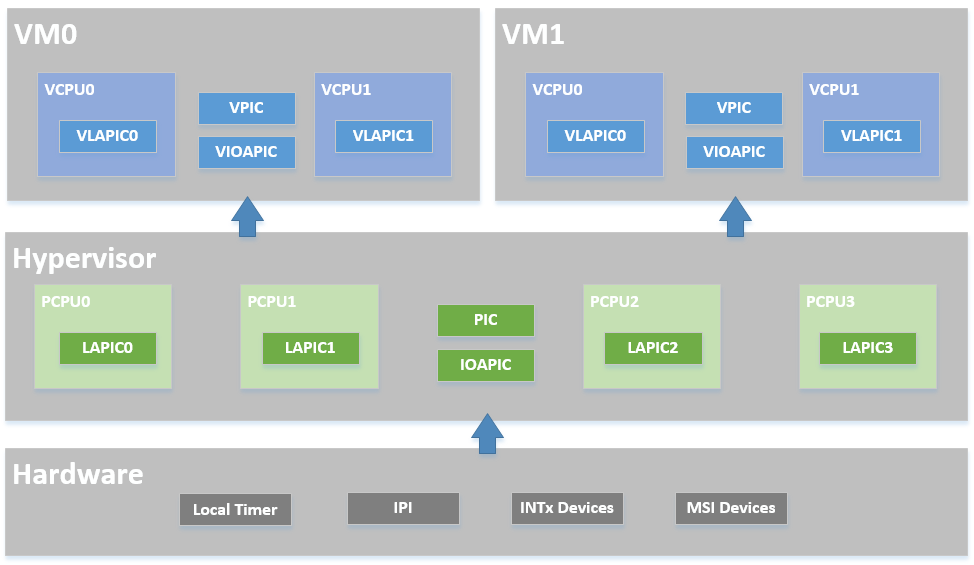
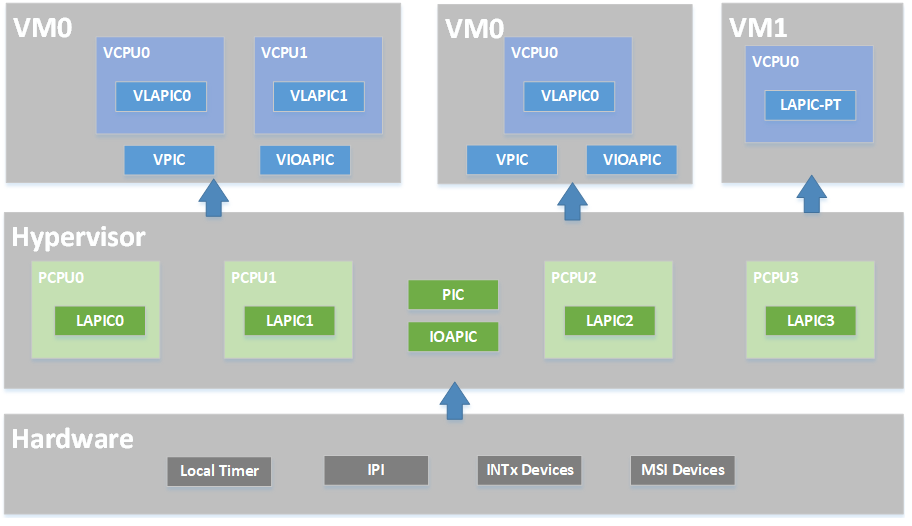
Doc: update physical interrupt HLD

diff --git a/doc/developer-guides/hld/hv-interrupt.rst b/doc/developer-guides/hld/hv-interrupt.rst
@@ -9,11 +9,13 @@ Overview
 The ACRN hypervisor implements a simple but fully functional framework
 to manage interrupts and exceptions, as show in
 :numref:`interrupt-modules-overview`. In its native layer, it configures
-the physical PIC, IOAPIC, and LAPIC to support different interrupt
+the physical PIC, IOAPIC and LAPIC to support different interrupt
 sources from local timer/IPI to external INTx/MSI. In its virtual guest
-layer, it emulates virtual PIC, virtual IOAPIC and virtual LAPIC, and
-provides full APIs allowing virtual interrupt injection from emulated or
-pass-thru devices.
+layer, it emulates virtual PIC, virtual IOAPIC and virtual LAPIC/pass-thru
+LAPIC, and provides full APIs allowing virtual interrupt injection from
+emulated or pass-thru devices. The contents in this section does not include
+the pass-thru LAPIC case, for the pass-thru LAPIC, please refer to
+:ref:`lapic_passthru`
 
 .. figure:: images/interrupt-image3.png
    :align: center
@@ -29,7 +31,8 @@ in the hypervisor interrupt flow control layer to the corresponding
 handlers, that could be pre-defined IPI notification, timer, or runtime
 registered pass-thru devices.  The ACRN hypervisor then uses its VM
 interfaces based on vPIC, vIOAPIC, and vMSI modules, to inject the
-necessary virtual interrupt into the specific VM
+necessary virtual interrupt into the specific VM, or directly deliver
+interrupt to the specific RT VM with pass-thru LAPIC.
 
 .. figure:: images/interrupt-image2.png
    :align: center
@@ -129,9 +132,9 @@ ACRN hypervisor masks all interrupts from the PIC. All legacy interrupts
 from PIC (<16) will be linked to IOAPIC, as shown in the connections in
 :numref:`hv-pic-config`.
 
-ACRN will pre-allocate vectors and mask them for these legacy interrupt
-in IOAPIC RTE. For others (>= 16), ACRN will mask them with vector 0 in
-RTE, and the vector will be dynamically allocate on demand.
+ACRN will pre-allocate vectors and set them for these legacy interrupts
+in IOAPIC RTEs. For others (>= 16), ACRN will set them with vector 0 in
+RTEs, and valid vectors will be dynamically allocated on demand.
 
 All external IOAPIC pins are categorized as GSI interrupt according to
 ACPI definition. HV supports multiple IOAPIC components. IRQ PIN to GSI
@@ -147,7 +150,7 @@ Native PIC is not used in the system.
 LAPIC Initialization
 ====================
 
-Physical LAPICs are in xAPIC mode in ACRN hypervisor. The hypervisor
+Physical LAPICs are in x2APIC mode in ACRN hypervisor. The hypervisor
 initializes LAPIC for each physical CPU by masking all interrupts in the
 local vector table (LVT), clearing all ISRs, and enabling LAPIC.
 
@@ -186,10 +189,10 @@ The interrupt vectors are assigned as shown here:
    * - Vectors
      - Usage
 
-   * - 0x0-0x13
+   * - 0x0-0x14
      - Exceptions: NMI, INT3, page dault, GP, debug.
 
-   * - 0x14-0x1F
+   * - 0x15-0x1F
      - Reserved
 
    * - 0x20-0x2F
@@ -207,6 +210,15 @@ The interrupt vectors are assigned as shown here:
    * - 0xF0
      - IPI
 
+   * - 0xF2
+     - Posted Interrupt
+
+   * - 0xF3
+     - Hypervisor Callback VHM
+
+   * - 0xF4
+     - Performance Monitering Interrupt
+
    * - 0xFF
      - SPURIOUS_APIC_VECTOR
 
@@ -217,12 +229,9 @@ priority ISR. There is no guarantee a device's interrupt will be
 delivered to a specific Guest's CPU. Timer interrupts are an exception -
 these are always delivered to the CPU which programs the LAPIC timer.
 
-There are two interrupt delivery modes: FLAT mode and PER_CPU mode. ACRN
-uses FLAT MODE where the interrupt/irq to vector mapping is the same on all CPUs. Every
-CPU receives same interrupts. IOAPIC and LAPIC MSI delivery mode are
-configured to Lowest Priority.
-
-Vector allocation for CPUs is shown here:
+x86-64 supports per CPU IDTs, but ACRN uses a global shared IDT,
+with which the interrupt/irq to vector mapping is the same on all CPUs. Vector
+allocation for CPUs is shown here:
 
 .. figure:: images/interrupt-image89.png
    :align: center
@@ -233,17 +242,15 @@ IRQ Descriptor Table
 ====================
 
 ACRN hypervisor maintains a global IRQ Descriptor Table shared among the
-physical CPUs. ACRN use FLAT MODE to manage the interrupts so the
-same vector will link to same the IRQ number for all CPUs.
+physical CPUs, so the same vector will link to the same IRQ number for
+all CPUs.
 
 .. note:: need to reference API doc for irq_desc
 
 
-The *irq_desc[]* array's index represents IRQ number. An *irq_handler*
-field could be set to common edge/level/quick handler which will be
-called from *interrupt_dispatch*. The *irq_desc* structure also
-contains the *dev_list* field to maintain this IRQ's action handler
-list.
+The *irq_desc[]* array's index represents IRQ number. A *handle_irq*
+will be called from *interrupt_dispatch* to commonly handle edge/level
+triggered irq and call the registered *action_fn*.
 
 Another reverse mapping from vector to IRQ is used in addition to the
 IRQ descriptor table which maintains the mapping from IRQ to vector.
@@ -253,14 +260,14 @@ proper vectors and the corresponding reverse mapping is set up.
 The descriptor of other IRQs are filled with an invalid
 vector which will be updated on IRQ allocation.
 
-For example, if local timer registers an interrupt with IRQ number 271 and
+For example, if local timer registers an interrupt with IRQ number 254 and
 vector 0xEF, then this date will be set up:
 
 .. code-block:: c
 
-   irq_desc[271].irq = 271
-   irq_desc[271].vector = 0xEF
-   vector_to_irq[0xEF] = 271
+   irq_desc[254].irq = 254
+   irq_desc[254].vector = 0xEF
+   vector_to_irq[0xEF] = 254
 
 External Interrupt Handling
 ***************************
@@ -279,13 +286,6 @@ and the interrupt will be delivered and processed as quickly as possible
 inside HV. HV may emulate a virtual interrupt and inject to Guest if
 necessary.
 
-When an physical interrupt happened on a CPU, this CPU could be running
-under VMX root mode or non-root mode. If the CPU is running under VMX
-root mode, the interrupt is triggered from standard native IRQ flow -
-interrupt gate to IRQ handler. If the CPU is running under VMX non-root
-mode, an external interrupt will trigger a VM exit for reason
-"external-interrupt".
-
 Interrupt and IRQ processing flow diagrams are shown below:
 
 .. figure:: images/interrupt-image48.png
@@ -293,11 +293,6 @@ Interrupt and IRQ processing flow diagrams are shown below:
    :name: phy-interrupt-processing
 
    Processing of physical interrupts
-
-.. figure:: images/interrupt-image39.png
-   :align: center
-
-   IRQ processing control flow
 
 When a physical interrupt is raised and delivered to a physical CPU, the
 CPU may be running under either VMX root mode or non-root mode.
@@ -332,14 +327,14 @@ there are three different handling flows according to flags:
    pin gets an explicit EOI ACK from guest.
 
 Since interrupts are not shared for multiple devices, there is only one
-IRQ action registered for each interrupt
+IRQ action registered for each interrupt.
 
 The IRQ number inside HV is a software concept to identify GSI and
 Vectors. Each GSI will be mapped to one IRQ. The GSI number is usually the same
 as the IRQ number. IRQ numbers greater than max GSI (nr_gsi) number are dynamically
 assigned. For example, HV allocates an interrupt vector to a PCI device,
 an IRQ number is then assigned to that vector. When the vector later
-reaches a CPU, the corresponding IRQ routine is located and executed.
+reaches a CPU, the corresponding IRQ action function is located and executed.
 
 See :numref:`request-irq` for request IRQ control flow for different
 conditions:

diff --git a/doc/developer-guides/hld/hv-virt-interrupt.rst b/doc/developer-guides/hld/hv-virt-interrupt.rst
@@ -117,6 +117,8 @@ it clears the highest priority vector in ISR and TMR, and updates PPR
 status. vLAPIC will then notify vIOAPIC if the corresponding vector
 comes from vIOAPIC. This only occurs for the level triggered interrupts.
 
+.. _lapic_passthru:
+
 LAPIC passthrough based on vLAPIC
 =================================
 
